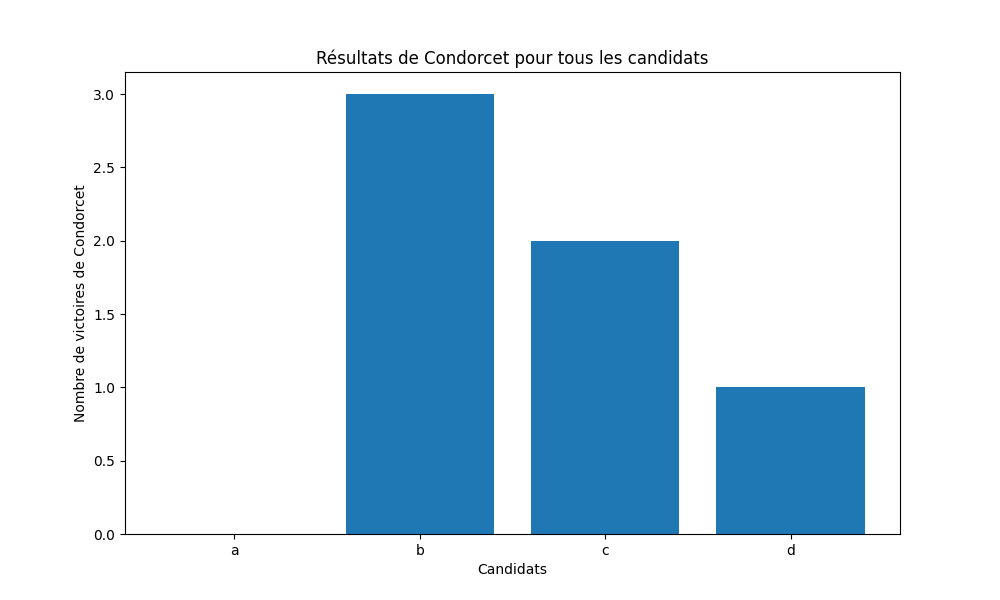
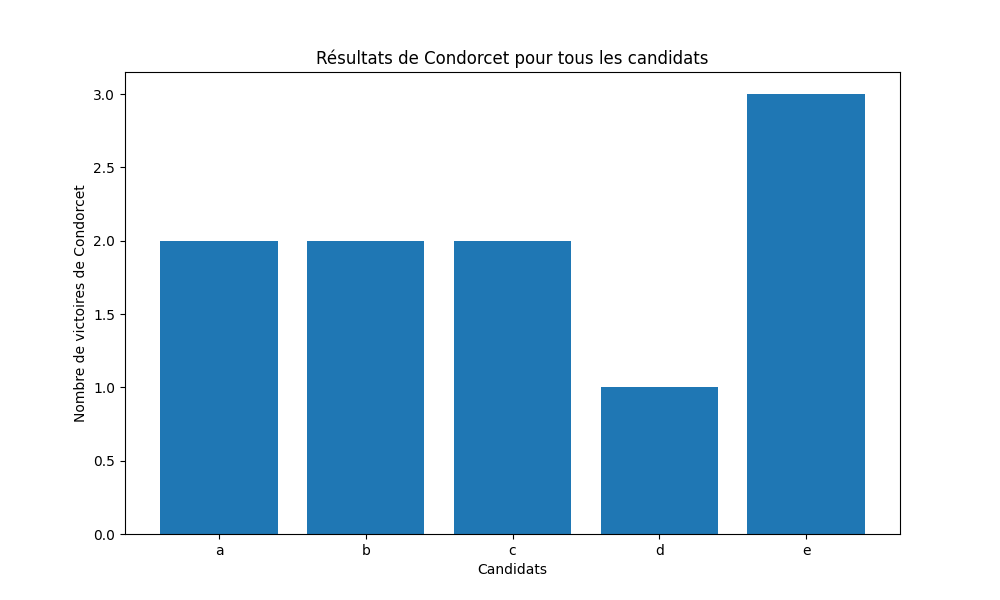
Copeland

Changed region(s): [[0.31, 0.15, 0.868, 0.9], [0.155, 0.39, 0.279, 0.93], [0.775, 0.9, 0.806, 0.93]]

diff --git a/copeland.py b/copeland.py
@@ -1,0 +1,148 @@
+import itertools
+import matplotlib.pyplot as plt
+import pandas as pd
+
+
+def copeland(csv):
+    nombre_de_colonnes = len(csv.columns)
+    nombre_de_lignes = len(csv.index)
+    votants = []
+
+    for colonne in range(nombre_de_colonnes):
+        votants.append(csv.iloc[:, colonne].tolist())
+
+    """
+        Builds a dictionary of scores
+        for each permutation of two candidates
+    """
+    candidates = set()
+    scores = dict()
+    for voting in votants:
+        for candidate in voting:
+            candidates.add(candidate)
+        for pair in list(itertools.permutations(voting, 2)):
+            if pair not in scores:
+                scores[pair] = 0
+            if voting.index(pair[0]) < voting.index(pair[1]):
+                scores[pair] += 1
+
+    # Obtenir la liste des candidats uniques
+    candidates = list(set(itertools.chain.from_iterable(scores.keys())))
+
+    # Créer un DataFrame pandas avec les candidats en colonnes et en index
+    df = pd.DataFrame(index=candidates, columns=candidates)
+
+    # Remplir le DataFrame avec les scores des candidats
+    for candidat1 in candidates:
+        for candidat2 in candidates:
+            if candidat1 != candidat2:
+                score = scores.get((candidat1, candidat2), 0)
+                df.loc[candidat1, candidat2] = score
+
+    # Inférer les types d'objets
+    df = df.infer_objects()
+
+    # Remplacer les valeurs NaN par 0
+    df.fillna(0, inplace=True)
+
+    # Trier les lignes et les colonnes par ordre alphabétique
+    df = df.sort_index(axis=0)
+    df = df.sort_index(axis=1)
+
+    # Affichage du plot avec les valeurs des scores dans les cases
+    plt.figure(figsize=(8, 6))
+    plt.imshow(df, cmap='coolwarm', interpolation='nearest')
+    plt.colorbar(label='Score')
+    plt.xticks(range(len(df.columns)), df.columns, rotation=45)
+    plt.yticks(range(len(df.index)), df.index)
+    for i in range(len(df.index)):
+        for j in range(len(df.columns)):
+            plt.text(j, i, df.iloc[i, j], ha='center', va='center', color='black')
+    plt.title("Matrice des scores de Condorcet")
+    plt.xlabel("Candidats")
+    plt.ylabel("Candidats")
+    plt.savefig('fig_condorcet/matriceCondorcet.png')
+
+    """
+        Analyses the dictionary of scores and
+        gives the winner of every pair of candidates
+    """
+    results = dict()
+    for match in list(itertools.combinations(candidates, 2)):
+        reverse = tuple(reversed(match))
+        if scores[match] > scores[reverse]:
+            results[match] = match[0]
+        else:
+            results[match] = match[1]
+
+    """
+        If a candidates is the winner against
+        every other candidate, declares him the winner
+        (Note: does not detect Condorcet cycles yet)
+    """
+    winners = set()
+    for candidate in candidates:
+        candidate_score = 0
+        for result in results:
+            if candidate in result and results[result] == candidate:
+                candidate_score += 1
+        if candidate_score == len(candidates) - 1:
+            winners.add(candidate)
+
+    if len(winners) == 1:
+        print("Le gagnant de Condorcet est :", winners.pop())
+    elif len(winners) > 1:
+        print("Il y a une égalité entre les candidats suivants pour le gagnant de Condorcet :", winners)
+    else:
+        print("Aucun gagant de Condorcet trouvé.")
+
+    # Affichage du nombre de duels gagnés et perdus par chaque candidat
+    duels_gagnes = {candidate: 0 for candidate in candidates}
+    duels_perdus = {candidate: 0 for candidate in candidates}
+    for result in results.values():
+        duels_gagnes[result] += 1
+
+    for candidate in candidates:
+        duels_perdus[candidate] = len(candidates) - 1 - duels_gagnes[candidate]
+
+    #print("Nombre de duels gagnés par chaque candidat :")
+    #for candidate, wins in duels_gagnes.items():
+        #print(f"{candidate}: {wins}")
+
+    #print("Nombre de duels perdus par chaque candidat :")
+    #for candidate, losses in duels_perdus.items():
+        #print(f"{candidate}: {losses}")
+
+    # Calcul de la différence entre le nombre de duels gagnés et perdus
+    differences = {candidate: duels_gagnes[candidate] - duels_perdus[candidate] for candidate in candidates}
+
+    max_difference = max(differences.values())
+    max_candidate = [candidate for candidate, diff in differences.items() if diff == max_difference][0]
+    print("La valeur la plus élevée dans differences est :", max_candidate, "avec un résultat de Copeland de", max_difference)
+
+    print("Différence (nombre de duels gagnés - nombre de duels perdus) pour chaque candidat :")
+    for candidate, diff in differences.items():
+        print(f"{candidate}: {diff}")
+
+    # Trier les candidats par ordre alphabétique
+    sorted_candidates = sorted(candidates)
+
+    # Affichage du plot bar des résultats de Condorcet pour tous les candidats
+    plt.figure(figsize=(10, 6))
+    plt.bar(range(len(sorted_candidates)), [list(results.values()).count(c) for c in sorted_candidates], align='center')
+    plt.xticks(range(len(sorted_candidates)), sorted_candidates)
+    plt.xlabel('Candidats')
+    plt.ylabel('Nombre de victoires de Condorcet')
+    plt.title('Résultats de Condorcet pour tous les candidats')
+    plt.savefig('fig_condorcet/resultsCondorcet.png')
+
+    # Affichage du plot bar de la différence (nombre de duels gagnés - nombre de duels perdus) pour chaque candidat
+    plt.figure(figsize=(10, 6))
+    plt.bar(range(len(sorted_candidates)), [differences[candidate] for candidate in sorted_candidates], align='center')
+    plt.xticks(range(len(sorted_candidates)), sorted_candidates)
+    plt.xlabel('Candidats')
+    plt.ylabel('Différence (Nombre de duels gagnés - Nombre de duels perdus)')
+    plt.title('Différence entre les duels gagnés et les duels perdus pour chaque candidat')
+    plt.axhline(0, color='gray', linestyle='-', linewidth=0.8)  # Ajout de la ligne à l'abscisse 0
+    plt.tight_layout()  # Ajustement de la disposition
+    plt.savefig('fig_copeland/resultatsCopeland.png')

diff --git a/main.py b/main.py
@@ -3,17 +3,19 @@ from voteDeuxTours import *
 from borda import *
 from condorcet import *
 from alternative import *
+from copeland import *
+from coombs import *
 import pandas as pd
 from Statistiques import *
 
-data_vote = pd.read_csv(filepath_or_buffer='data/exo3.csv', delimiter=',', header=None)
+data_vote = pd.read_csv(filepath_or_buffer='data/exo2.csv', delimiter=',', header=None)
 '''
 STAT
 '''
 
 # Get size of dataset
 #print(data_vote)
-#dim = size_of_dataset(data_vote)
+dim = size_of_dataset(data_vote)
 #print(dim)
 #print("Le dataset contient " + str(dim[1]) + " classement(s) de " + str(dim[0]) + " critères")
 
@@ -59,16 +61,21 @@ Fin Borda
 '''
 Alternatif
 '''
-print(vote_alternatif(data_vote, dim[1]))
-print(vote_alternatif_classement(data_vote))
+#print(vote_alternatif(data_vote, dim[1]))
+#print(vote_alternatif_classement(data_vote))
 '''
 Fin Alternatif
 '''
+
 
 # -------------------
 # Condorcet
 # -------------------
 condorcet(data_vote)
 
+# -------------------
+# Copeland
+# -------------------
+copeland(data_vote)
 
 
